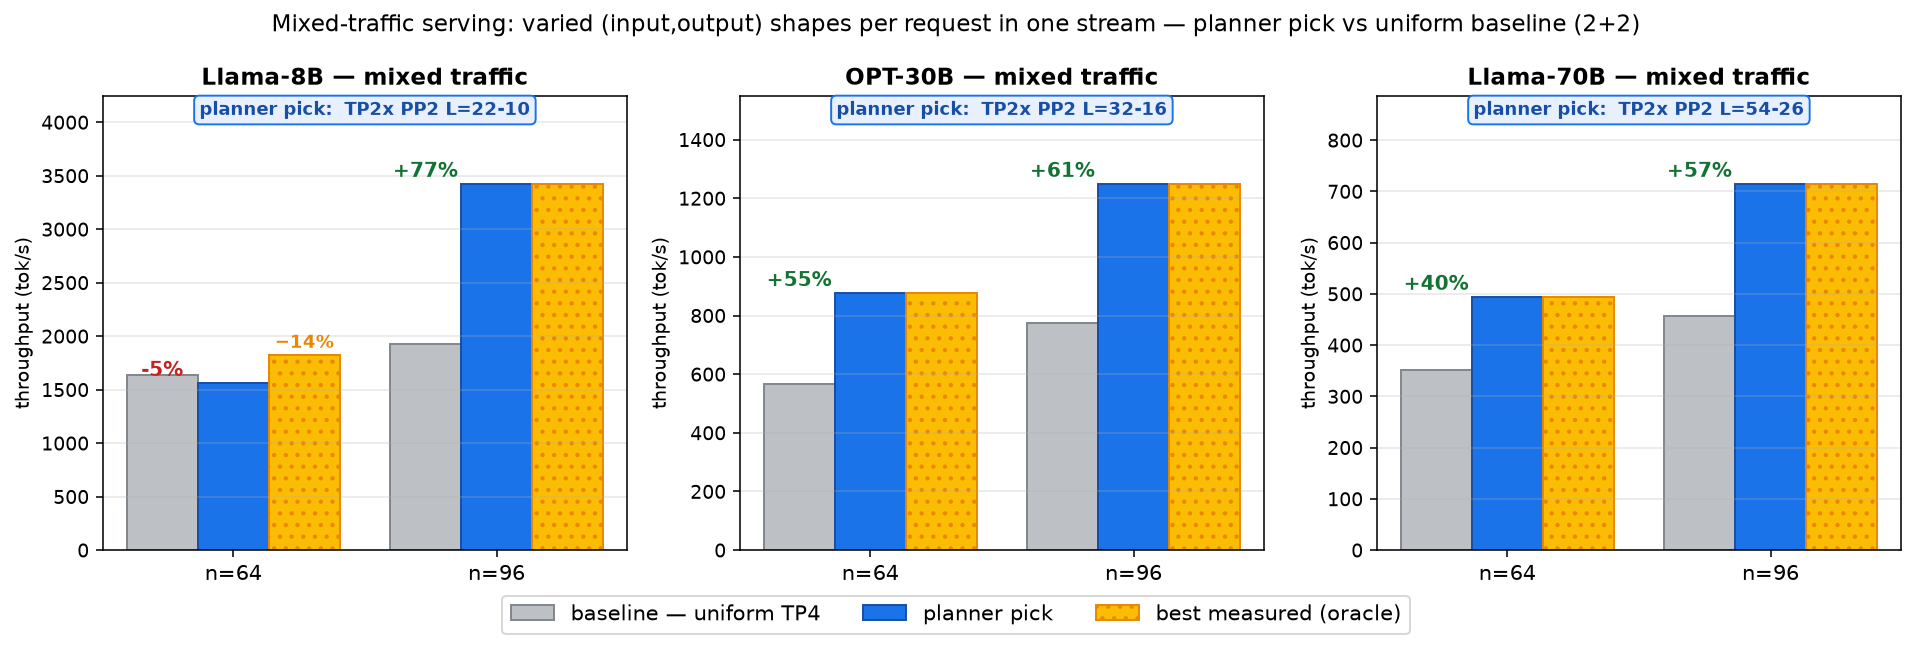
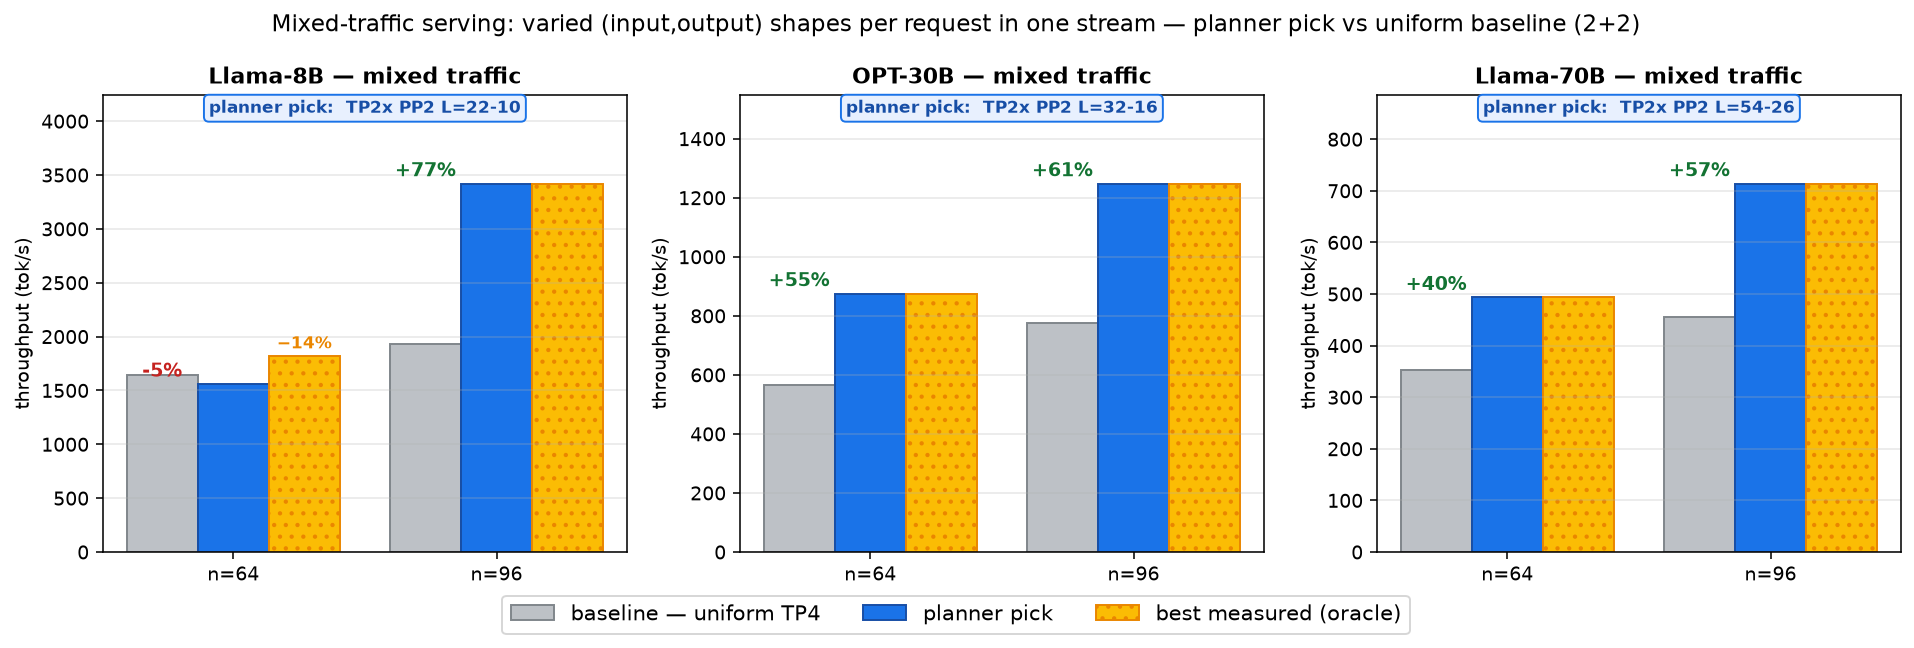
planner: combined mixed-traffic figure (4+4 + 2+2) + tracked results CSV
- figures/fig_mixed_traffic_combined.png: all layouts stacked (rows=layout,
  cols=model), baseline (uniform TP=world) vs planner pick vs measured oracle, with
  uplift% and the planner's picked non-uniform config per panel. The paper figure.
- planner/mixed_traffic_results.csv: layout-aware mixed-traffic results (baseline,
  planner pick, oracle, uplift, regret) committed to a tracked location, generated by
  build_mixed_csv.py so it stays consistent with the data + planner.
- plot_mixed.py: refactored to a shared panel helper; emits per-layout + combined.

Mixed-traffic over uniform-TP baseline: 4+4 opt30b +72/+163%, 70b +90/+170%, 8b
+35/+125%; 2+2 (after the radix-independent AR fix) opt30b +55/+61%, 70b +40/+56%
(planner pick = measured oracle).

diff --git a/planner/plot_mixed.py b/planner/plot_mixed.py
@@ -1,10 +1,9 @@
-"""Mixed-traffic result figure: per model, baseline (uniform TP=world) vs the
-planner's actual pick, on a stream of MIXED request shapes (varied (in,out) per
-request in ONE concurrent stream). One grouped bar set per model; concurrency on
-x; uplift % over the bars; the planner's picked non-uniform config annotated.
-
-Layout-parametric: emits fig_mixed_traffic_{hg}x{wg}.png for every layout that has
-mixed records. The 4+4 figure is also copied to fig_mixed_traffic.png (package name).
+"""Mixed-traffic result figures: per model, baseline (uniform TP=world) vs the
+planner's actual pick vs the measured oracle, on a stream of MIXED request shapes
+(varied (in,out) per request in ONE concurrent stream). Emits:
+  figures/fig_mixed_traffic_{hg}x{wg}.png   one per layout with mixed records
+  figures/fig_mixed_traffic_combined.png    all layouts stacked (the paper figure)
+  figures/fig_mixed_traffic.png             = the 4+4 panel (package canonical name)
 Usage: python planner/plot_mixed.py
 """
 import glob, json, shutil, sys
@@ -14,15 +13,17 @@ import numpy as np
 import matplotlib
 matplotlib.use("Agg")
 import matplotlib.pyplot as plt
+from matplotlib.patches import Patch
 sys.path.insert(0, str(Path(__file__).resolve().parent))
 import perf_planner as P
 
 REPO = Path(__file__).resolve().parents[1]
 OUT = REPO / "figures"; OUT.mkdir(exist_ok=True)
-# mean (in,out) of the mixed shape mix actually sent at each layout/model. 8b uses
-# the full 4096-cap mix; opt30b/70b use the <=1900 cap (shorter mean).
+# mean (in,out) of the mixed shape mix actually sent at each model. 8b uses the full
+# 4096-cap mix; opt30b/70b use the <=1900 cap (shorter mean).
 MEAN = {"8b": (1080, 483), "opt30b": (597, 540), "70b": (597, 540)}
 TITLE = {"8b": "Llama-8B", "opt30b": "OPT-30B", "70b": "Llama-70B"}
+LAYOUTS = [(4, 4), (2, 2), (1, 1)]
 
 
 def relayout(hw, hg, wg):
@@ -40,6 +41,57 @@ def recs(mk, hg, wg):
     return R
 
 
+def _draw_panel(ax, mk, hg, wg, hw, show_layout=False):
+    """Draw one model's mixed-traffic panel at a layout. Returns True if it drew."""
+    world = hg + wg
+    R = recs(mk, hg, wg)
+    if not R:
+        ax.set_visible(False); return False
+    il, ol = MEAN[mk]; ns = sorted(R)
+    base, pick, oracle, picklab = [], [], [], []
+    for n in ns:
+        r = R[n]; b = r.get(f"TP{world}PP1_uniform")
+        pk = P.plan(P.MODELS[mk], hw, P.Workload(il, ol, n), top_k=1)[0][1]
+        cand = [(lab, v) for lab, v in r.items() if v[2] == pk.tp and v[3] == pk.pp]
+        if not cand:
+            base.append(b[0] if b else 0); pick.append(b[0] if b else 0)
+            picklab.append(f"TP{pk.tp}x PP{pk.pp}")
+        else:
+            mlab, mv = min(cand, key=lambda x: sum(abs(a - c) for a, c in zip(x[1][1], pk.layer_split)))
+            base.append(b[0] if b else 0); pick.append(mv[0])
+            picklab.append(f"TP{pk.tp}x PP{pk.pp} L={'-'.join(map(str, pk.layer_split))}")
+        oracle.append(max(v[0] for v in r.values()))
+    x = np.arange(len(ns)); w = 0.27
+    ax.bar(x - w, base, w, color="#bdc1c6", edgecolor="#80868b")
+    ax.bar(x, pick, w, color="#1a73e8", edgecolor="#174ea6")
+    ax.bar(x + w, oracle, w, color="#fbbc04", edgecolor="#ea8600", hatch="..")
+    top = max(max(base), max(pick), max(oracle), 1)
+    for j in range(len(ns)):
+        if base[j] > 0:
+            ax.text(j - w, pick[j] + top * 0.02, f"{(pick[j]/base[j]-1)*100:+.0f}%",
+                    ha="center", fontsize=10, fontweight="bold",
+                    color="#137333" if pick[j] >= base[j] else "#c5221f")
+        if oracle[j] > pick[j] * 1.03:
+            ax.text(j + w, oracle[j] + top * 0.02, f"−{(1-pick[j]/oracle[j])*100:.0f}%",
+                    ha="center", fontsize=8.5, fontweight="bold", color="#ea8600")
+    ax.set_xticks(x); ax.set_xticklabels([f"n={n}" for n in ns], fontsize=10)
+    ax.set_ylim(0, top * 1.24)
+    t = f"{TITLE[mk]}  ({hg}+{wg})" if show_layout else f"{TITLE[mk]} — mixed traffic"
+    ax.set_title(t, fontweight="bold", fontsize=11.5)
+    ax.set_ylabel("throughput (tok/s)"); ax.grid(axis="y", alpha=0.3)
+    ax.text(0.5, 0.99, "planner pick:  " + picklab[-1], transform=ax.transAxes, ha="center",
+            va="top", fontsize=8.5, color="#174ea6", fontweight="bold",
+            bbox=dict(boxstyle="round,pad=0.3", fc="#e8f0fe", ec="#1a73e8"))
+    return True
+
+
+def _legend(fig, world_label="TP=world"):
+    fig.legend(handles=[Patch(fc="#bdc1c6", ec="#80868b", label=f"baseline — uniform {world_label}"),
+                        Patch(fc="#1a73e8", ec="#174ea6", label="planner pick"),
+                        Patch(fc="#fbbc04", ec="#ea8600", hatch="..", label="best measured (oracle)")],
+               loc="lower center", ncol=3, fontsize=11, bbox_to_anchor=(0.5, 0.0))
+
+
 def plot_layout(hg, wg):
     world = hg + wg
     hw = relayout(P.load_hardware(), hg, wg)
@@ -47,50 +99,9 @@ def plot_layout(hg, wg):
     if not models:
         return None
     fig, axes = plt.subplots(1, len(models), figsize=(len(models) * 4.6, 4.6), squeeze=False)
-    axes = axes.flatten()
     for i, mk in enumerate(models):
-        ax = axes[i]; R = recs(mk, hg, wg); il, ol = MEAN[mk]
-        ns = sorted(R)
-        base, pick, oracle, picklab = [], [], [], []
-        for n in ns:
-            r = R[n]; b = r.get(f"TP{world}PP1_uniform")
-            pk = P.plan(P.MODELS[mk], hw, P.Workload(il, ol, n), top_k=1)[0][1]
-            cand = [(lab, v) for lab, v in r.items() if v[2] == pk.tp and v[3] == pk.pp]
-            if not cand:                      # planner topology not measured this layout
-                base.append(b[0] if b else 0); pick.append(b[0] if b else 0)
-                picklab.append(f"TP{pk.tp}x PP{pk.pp}")
-            else:
-                mlab, mv = min(cand, key=lambda x: sum(abs(a - c) for a, c in zip(x[1][1], pk.layer_split)))
-                base.append(b[0] if b else 0); pick.append(mv[0])
-                picklab.append(f"TP{pk.tp}x PP{pk.pp} L={'-'.join(map(str, pk.layer_split))}")
-            # oracle = best measured config at this n (what the planner *could* pick).
-            # Drawn so the planner's regret is shown honestly, not hidden.
-            oracle.append(max(v[0] for v in r.values()))
-        x = np.arange(len(ns)); w = 0.27
-        ax.bar(x - w, base, w, color="#bdc1c6", edgecolor="#80868b")
-        ax.bar(x, pick, w, color="#1a73e8", edgecolor="#174ea6")
-        ax.bar(x + w, oracle, w, color="#fbbc04", edgecolor="#ea8600", hatch="..")
-        top = max(max(base), max(pick), max(oracle), 1)
-        for j in range(len(ns)):
-            if base[j] > 0:
-                ax.text(j - w, pick[j] + top * 0.02, f"{(pick[j]/base[j]-1)*100:+.0f}%",
-                        ha="center", fontsize=10.5, fontweight="bold",
-                        color="#137333" if pick[j] >= base[j] else "#c5221f")
-            if oracle[j] > pick[j] * 1.03:    # planner left a gap below the oracle
-                ax.text(j + w, oracle[j] + top * 0.02, f"−{(1-pick[j]/oracle[j])*100:.0f}%",
-                        ha="center", fontsize=9, fontweight="bold", color="#ea8600")
-        ax.set_xticks(x); ax.set_xticklabels([f"n={n}" for n in ns], fontsize=11)
-        ax.set_ylim(0, top * 1.24)
-        ax.set_title(f"{TITLE[mk]} — mixed traffic", fontweight="bold", fontsize=12)
-        ax.set_ylabel("throughput (tok/s)"); ax.grid(axis="y", alpha=0.3)
-        ax.text(0.5, 0.99, "planner pick:  " + picklab[-1], transform=ax.transAxes, ha="center",
-                va="top", fontsize=9, color="#174ea6", fontweight="bold",
-                bbox=dict(boxstyle="round,pad=0.3", fc="#e8f0fe", ec="#1a73e8"))
-    from matplotlib.patches import Patch
-    fig.legend(handles=[Patch(fc="#bdc1c6", ec="#80868b", label=f"baseline — uniform TP{world}"),
-                        Patch(fc="#1a73e8", ec="#174ea6", label="planner pick"),
-                        Patch(fc="#fbbc04", ec="#ea8600", hatch="..", label="best measured (oracle)")],
-               loc="lower center", ncol=3, fontsize=11, bbox_to_anchor=(0.5, 0.0))
+        _draw_panel(axes[0][i], mk, hg, wg, hw)
+    _legend(fig, f"TP{world}")
     fig.suptitle(f"Mixed-traffic serving: varied (input,output) shapes per request in one stream — "
                  f"planner pick vs uniform baseline ({hg}+{wg})", fontsize=12)
     plt.tight_layout(rect=[0, 0.06, 1, 1])
@@ -100,13 +111,40 @@ def plot_layout(hg, wg):
     return p
 
 
+def plot_combined():
+    """All layouts that have mixed data, stacked: rows = layouts, cols = models."""
+    rows = [(hg, wg) for hg, wg in LAYOUTS if any(recs(mk, hg, wg) for mk in ["8b", "opt30b", "70b"])]
+    models = ["8b", "opt30b", "70b"]
+    if not rows:
+        return None
+    fig, axes = plt.subplots(len(rows), len(models), figsize=(len(models) * 4.6, len(rows) * 4.3),
+                             squeeze=False)
+    for ri, (hg, wg) in enumerate(rows):
+        hw = relayout(P.load_hardware(), hg, wg)
+        # row label on the left
+        axes[ri][0].annotate(f"{hg}+{wg}\nlayout", xy=(-0.32, 0.5), xycoords="axes fraction",
+                             ha="center", va="center", fontsize=13, fontweight="bold",
+                             rotation=90, color="#5f6368")
+        for ci, mk in enumerate(models):
+            _draw_panel(axes[ri][ci], mk, hg, wg, hw, show_layout=True)
+    _legend(fig, "TP=world (per layout)")
+    fig.suptitle("Mixed-traffic serving — planner pick vs uniform baseline vs measured oracle\n"
+                 "(varied (input,output) shapes per request in one concurrent stream)", fontsize=13)
+    plt.tight_layout(rect=[0, 0.05, 1, 0.98])
+    p = OUT / "fig_mixed_traffic_combined.png"
+    fig.savefig(p, dpi=140, bbox_inches="tight"); plt.close(fig)
+    print(f"saved {p}  ({len(rows)} layouts x {len(models)} models)")
+    return p
+
+
 def main():
     p44 = None
-    for hg, wg in [(4, 4), (2, 2), (1, 1)]:
+    for hg, wg in LAYOUTS:
         p = plot_layout(hg, wg)
         if p and (hg, wg) == (4, 4):
             p44 = p
-    if p44:                                   # keep the package's canonical name
+    plot_combined()
+    if p44:
         shutil.copy(p44, OUT / "fig_mixed_traffic.png")
         print(f"copied {p44.name} -> fig_mixed_traffic.png")
 